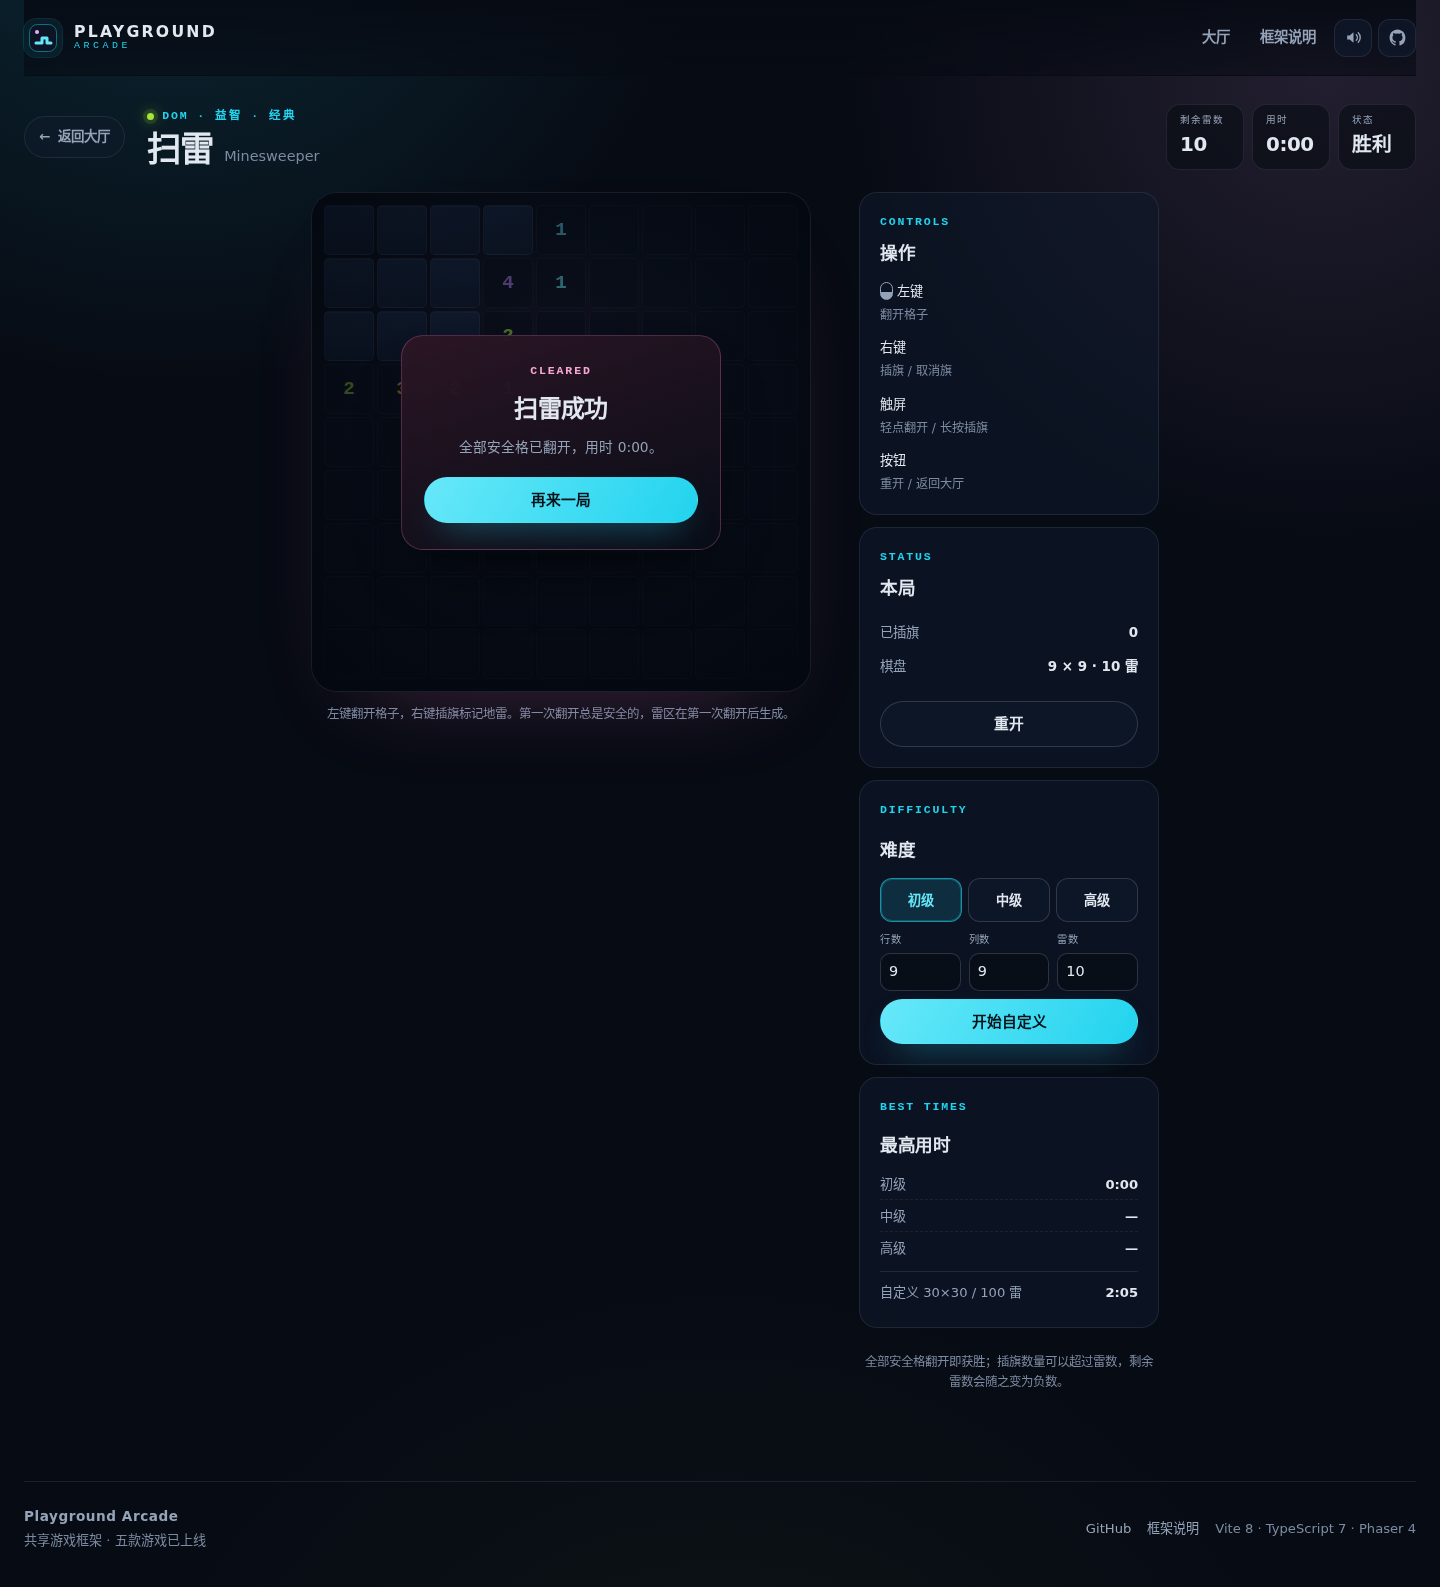
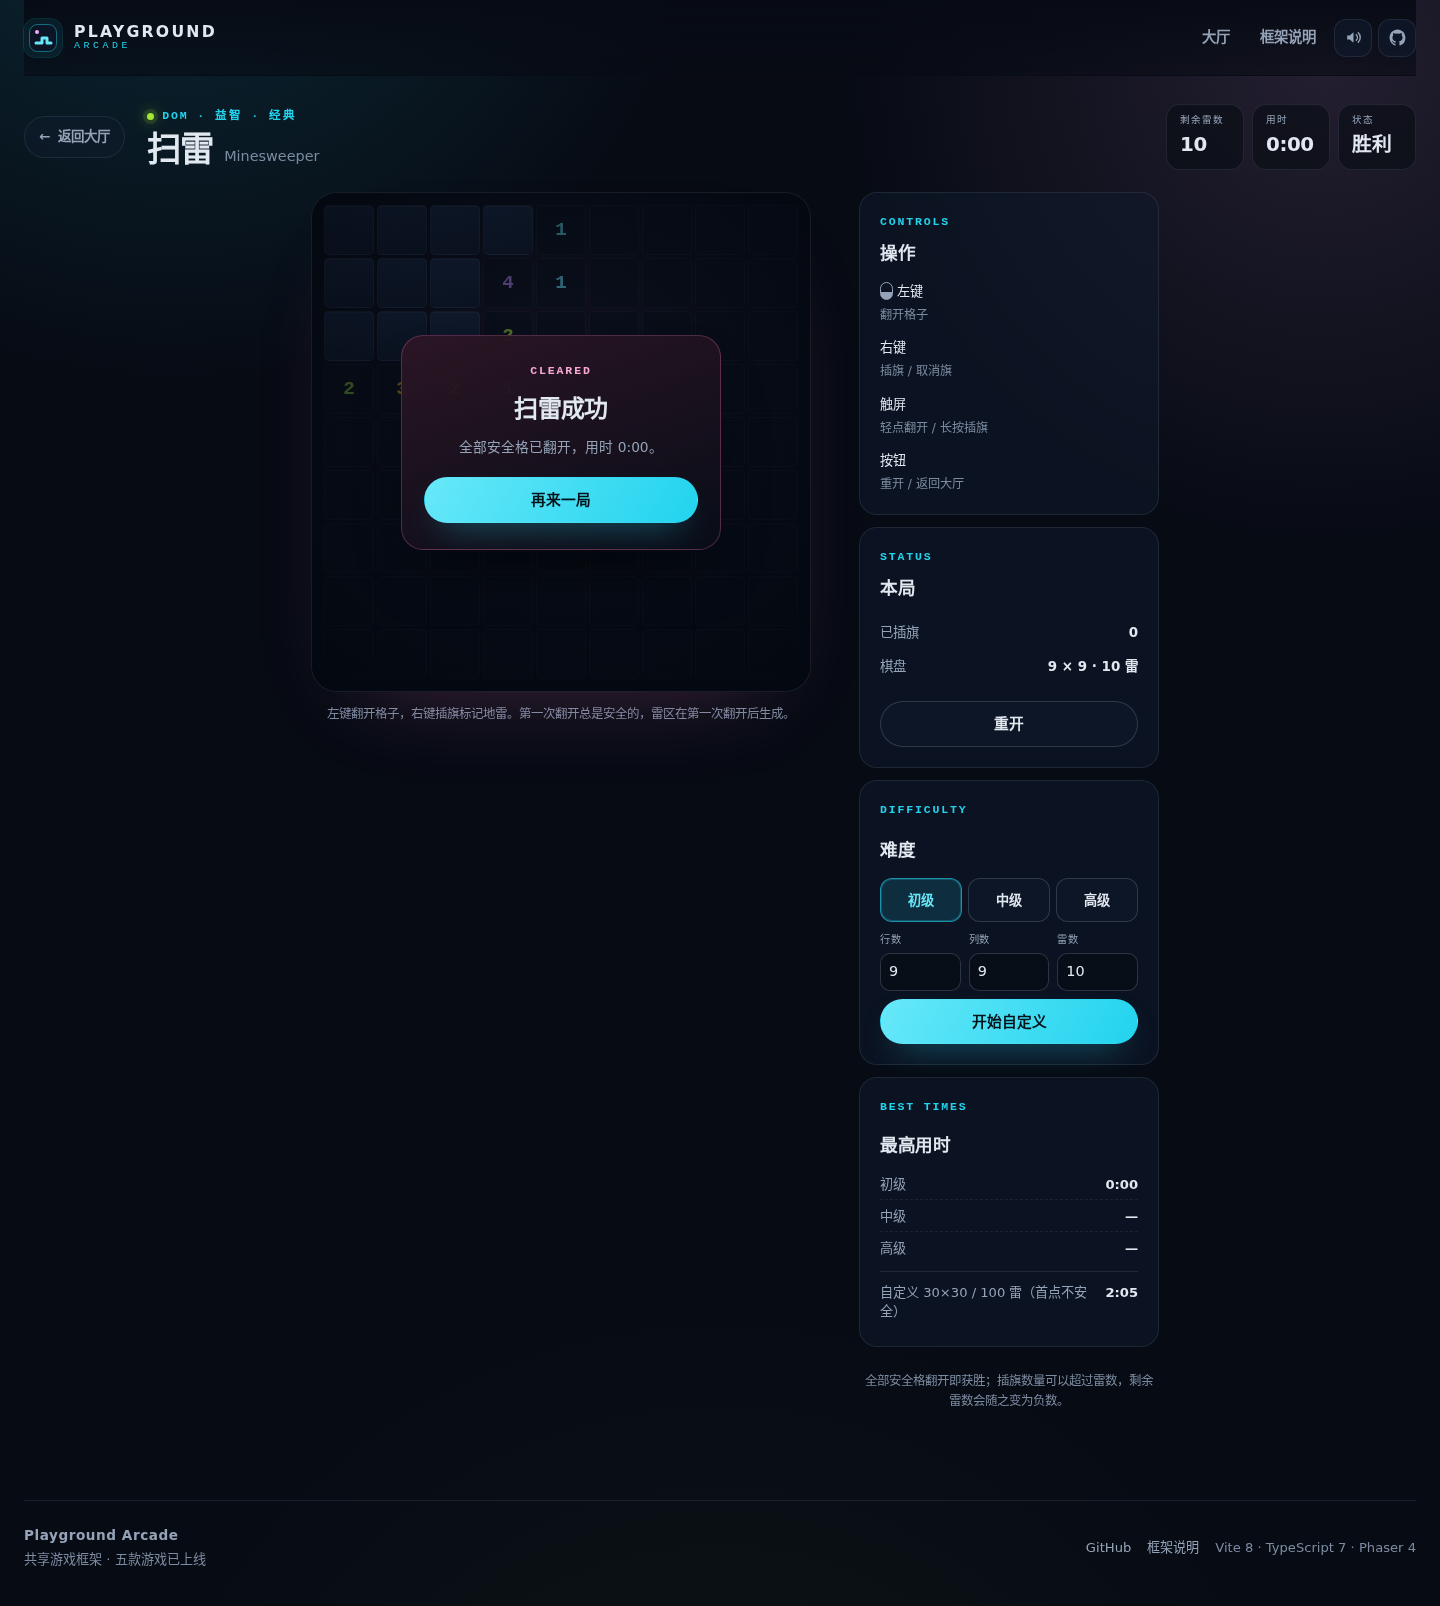
fix(minesweeper): 收紧最高用时写入与榜单测试覆盖
- 预设行改为从 DIFFICULTY_PRESETS 生成，重开也重新读取榜单，消除标签
  漂移风险和「重开只重读」的注释 / 行为不一致
- 单测严格断言元素存在，新增带计时的非零胜利用例，并证明难度切换真的
  重建了棋盘；重开后榜单仍保留原成绩
- e2e 胜利用例改为两段式拆分局并等待计时器，验证非零用时刷新后保留；
  手机端改测最长的「首点不安全」自定义标签
- 截图脚本在 --before 模式断言新面板不存在，避免基线 URL 误用
- 同步测试计数（单测 348、扫雷 128）并刷新 After 截图

Refs #45

diff --git a/src/games/minesweeper/view.test.ts b/src/games/minesweeper/view.test.ts
@@ -209,15 +209,19 @@ function scoreRow(root: HTMLElement, bucketId: string): HTMLElement | null {
 }
 
 function scoreText(root: HTMLElement, bucketId: string): string {
-  return scoreRow(root, bucketId)?.querySelector('dd')?.textContent ?? '';
+  const row = scoreRow(root, bucketId);
+  if (!row) {
+    throw new Error(`Expected a score row for ${bucketId}`);
+  }
+  return row.querySelector('dd')?.textContent ?? '';
 }
 
 function isHidden(root: HTMLElement, testId: string): boolean {
-  return (
-    root
-      .querySelector(`[data-testid="${testId}"]`)
-      ?.hasAttribute('hidden') ?? true
-  );
+  const element = root.querySelector(`[data-testid="${testId}"]`);
+  if (!element) {
+    throw new Error(`Expected ${testId}`);
+  }
+  return element.hasAttribute('hidden');
 }
 
 function clickDifficulty(root: HTMLElement, id: string): void {
@@ -446,7 +450,7 @@ describe('minesweeper best-time leaderboard', () => {
     expect(statusOf(root)).toBe('lost');
     expect(isHidden(root, 'scores-empty')).toBe(false);
     expect(isHidden(root, 'scores-presets')).toBe(true);
-    expect(scoreText(root, CUSTOM_BUCKET)).toBe('');
+    expect(scoreRow(root, CUSTOM_BUCKET)).toBeNull();
     expect(store.getItem(SCORES_STORE_KEY)).toBeNull();
   });
 
@@ -459,14 +463,26 @@ describe('minesweeper best-time leaderboard', () => {
 
     clickCell(root, 2, 2);
     expect(statusOf(root)).toBe('won');
+    const shown = scoreText(root, CUSTOM_BUCKET);
     expect(scoreWrites()).toHaveLength(1);
 
     clickRestart(root);
     expect(statusOf(root)).toBe('ready');
+    expect(scoreText(root, CUSTOM_BUCKET)).toBe(shown);
     expect(scoreWrites()).toHaveLength(1);
 
-    debugApi()?.setConfig(BEGINNER_CONFIG);
+    const api = debugApi();
+    expect(api).toBeDefined();
+    api?.setConfig(BEGINNER_CONFIG);
     expect(statusOf(root)).toBe('ready');
+    // Prove the rebuild really happened instead of letting a missing debug
+    // seam make the optional call a silent no-op.
+    expect(root.querySelectorAll('[data-cell]')).toHaveLength(81);
+    expect(
+      root
+        .querySelector<HTMLButtonElement>('[data-testid="difficulty-beginner"]')
+        ?.getAttribute('aria-pressed'),
+    ).toBe('true');
     expect(scoreWrites()).toHaveLength(1);
   });
 
@@ -507,6 +523,39 @@ describe('minesweeper best-time leaderboard', () => {
     }
   });
 
+  it('records the real elapsed time for a timed win', async () => {
+    vi.useFakeTimers({
+      toFake: [
+        'setTimeout',
+        'clearTimeout',
+        'setInterval',
+        'clearInterval',
+        'performance',
+        'Date',
+      ],
+    });
+    try {
+      const { services } = createServices();
+      const scores = createMinesweeperScores(services.storage);
+      const beginner = bucketForConfig(BEGINNER_CONFIG);
+      const root = await mount(services, PRESET_LOSS_HASH);
+
+      clickCell(root, PRESET_SAFE_CLICK.row, PRESET_SAFE_CLICK.col);
+      expect(statusOf(root)).toBe('playing');
+      vi.advanceTimersByTime(2_500);
+      winRemainingSafeCells(root);
+
+      expect(statusOf(root)).toBe('won');
+      const elapsedMs = gameState().elapsedMs;
+      expect(elapsedMs).toBeGreaterThanOrEqual(2_500);
+      expect(scoreText(root, 'beginner')).toBe(displayTime(elapsedMs));
+      expect(scoreText(root, 'beginner')).not.toBe('0:00');
+      expect(scores.best(beginner)).toBe(elapsedMs);
+    } finally {
+      vi.useRealTimers();
+    }
+  });
+
   it('keeps every bucket when the difficulty changes and shows the matching rows', async () => {
     const { services } = createServices();
     const scores = createMinesweeperScores(services.storage);
@@ -528,7 +577,7 @@ describe('minesweeper best-time leaderboard', () => {
       '自定义 12×12 / 20 雷',
     );
     // The mounted 5x5 board itself has no record, so it is not listed.
-    expect(scoreText(root, CUSTOM_BUCKET)).toBe('');
+    expect(scoreRow(root, CUSTOM_BUCKET)).toBeNull();
 
     clickDifficulty(root, 'beginner');
     expect(statusOf(root)).toBe('ready');

diff --git a/src/games/minesweeper/view.ts b/src/games/minesweeper/view.ts
@@ -52,6 +52,19 @@ function difficultyPresetButtonsHtml(config: Readonly<MinesweeperConfig>): strin
   ).join('');
 }
 
+/**
+ * Render the three preset score rows from the same list the selector and the
+ * score store use, so ids, labels and order cannot drift.
+ */
+function scorePresetRowsHtml(): string {
+  return DIFFICULTY_PRESETS.map(
+    (preset) => `<div class="minesweeper-score" data-score-bucket="${preset.id}">
+              <dt>${preset.label}</dt>
+              <dd data-testid="score-${preset.id}-time">—</dd>
+            </div>`,
+  ).join('');
+}
+
 /** Render the shell for one board configuration; the board itself is rebuilt later. */
 function viewHtml(config: Readonly<MinesweeperConfig>): string {
   return `
@@ -176,18 +189,7 @@ function viewHtml(config: Readonly<MinesweeperConfig>): string {
           <h2 id="minesweeper-scores-title">最高用时</h2>
           <p class="minesweeper-scores-empty" data-testid="scores-empty">还没有记录</p>
           <dl class="minesweeper-scores-list" data-testid="scores-presets" hidden>
-            <div class="minesweeper-score" data-score-bucket="beginner">
-              <dt>初级</dt>
-              <dd data-testid="score-beginner-time">—</dd>
-            </div>
-            <div class="minesweeper-score" data-score-bucket="intermediate">
-              <dt>中级</dt>
-              <dd data-testid="score-intermediate-time">—</dd>
-            </div>
-            <div class="minesweeper-score" data-score-bucket="expert">
-              <dt>高级</dt>
-              <dd data-testid="score-expert-time">—</dd>
-            </div>
+            ${scorePresetRowsHtml()}
           </dl>
           <div class="minesweeper-scores-custom" data-testid="scores-custom" hidden>
             <dl class="minesweeper-scores-list" data-testid="scores-custom-list"></dl>
@@ -488,12 +490,10 @@ export async function mountMinesweeper(
   const scoresPresets = query<HTMLElement>(root, '[data-testid="scores-presets"]');
   const scoresCustom = query<HTMLElement>(root, '[data-testid="scores-custom"]');
   const scoresCustomList = query<HTMLElement>(root, '[data-testid="scores-custom-list"]');
-  const presetScoreElements: ReadonlyMap<string, HTMLElement> = new Map(
-    DIFFICULTY_PRESETS.map((preset) => [
-      preset.id,
-      query<HTMLElement>(root, `[data-testid="score-${preset.id}-time"]`),
-    ]),
-  );
+  const presetScoreElements = DIFFICULTY_PRESETS.map((preset) => ({
+    preset,
+    element: query<HTMLElement>(root, `[data-testid="score-${preset.id}-time"]`),
+  }));
   const scores = createMinesweeperScores(services.storage);
 
   const controller = new AbortController();
@@ -627,11 +627,7 @@ export async function mountMinesweeper(
 
     scoresEmpty.hidden = entries.length > 0;
     scoresPresets.hidden = entries.length === 0;
-    for (const preset of DIFFICULTY_PRESETS) {
-      const element = presetScoreElements.get(preset.id);
-      if (element === undefined) {
-        continue;
-      }
+    for (const { preset, element } of presetScoreElements) {
       const elapsedMs = bestByBucket.get(preset.id);
       setText(element, elapsedMs === undefined ? '—' : formatTime(elapsedMs));
     }
@@ -887,6 +883,7 @@ export async function mountMinesweeper(
     // game action, so clear that transient error and show the active config.
     hideDifficultyError();
     syncDifficultyControls();
+    renderScores();
     announce('游戏重新开始');
     // The overlay hides with focus still inside it, so move focus back to a
     // visible restart control once the new board is ready. On touch layouts the

diff --git a/tests/e2e/minesweeper.spec.ts b/tests/e2e/minesweeper.spec.ts
@@ -25,6 +25,13 @@ import {
   trackProbeTarget,
 } from './fixtures';
 
+// A mine wall at column 4 splits the board into two safe regions, so winning
+// takes two reveals and the pause between them records a non-zero time.
+const SPLIT_MINES = [
+  { row: 0, col: 0 },
+  ...Array.from({ length: 9 }, (_, row) => ({ row, col: 4 })),
+];
+
 test.describe('minesweeper gameplay', () => {
   test('hub card opens the game, shows the ready HUD, and the back link returns to the hub', async ({
     page,
@@ -295,17 +302,25 @@ test.describe('minesweeper gameplay', () => {
     await expectCleanBoard(page);
   });
 
-  test('a win records a best time that survives a reload', async ({ page }) => {
-    await openMinesweeper(page, { mines: WIN_MINES });
+  test('a win records a non-zero best time that survives a reload', async ({ page }) => {
+    await openMinesweeper(page, { mines: SPLIT_MINES });
     const score = page.getByTestId('score-beginner-time');
     await expect(page.getByTestId('scores-empty')).toBeVisible();
 
-    await cellLocator(page, WIN_CLICK.row, WIN_CLICK.col).click();
+    // The first reveal clears only the left safe region. Wait past a timer tick
+    // so the winning time is genuinely non-zero rather than 0:00.
+    await cellLocator(page, 8, 0).click();
+    await expect(page.getByTestId('status')).toHaveText('进行中');
+    await page.waitForTimeout(1_200);
+    await expect(page.getByTestId('timer')).not.toHaveText('0:00');
+
+    await cellLocator(page, 8, 8).click();
     await expect(page.getByTestId('status')).toHaveText('胜利');
     await expect(page.getByTestId('scores-empty')).toBeHidden();
     await expect(score).toHaveText(/^\d+:\d{2}$/);
     const best = (await score.textContent()) ?? '';
     expect(best).not.toBe('—');
+    expect(best).not.toBe('0:00');
 
     const stored = await page.evaluate(() =>
       JSON.parse(
@@ -314,6 +329,7 @@ test.describe('minesweeper gameplay', () => {
     );
     expect(stored.version).toBe(1);
     expect(typeof stored.records.beginner).toBe('number');
+    expect(stored.records.beginner).toBeGreaterThan(0);
 
     // A document reload remounts the game from localStorage; the same fixed
     // board URL is preserved, so the row must show the same best time.

diff --git a/tests/e2e/minesweeper.mobile.spec.ts b/tests/e2e/minesweeper.mobile.spec.ts
@@ -124,14 +124,14 @@ test.describe('minesweeper on a phone viewport', () => {
         'playground:v1:minesweeper.scores',
         JSON.stringify({
           version: 1,
-          records: { 'custom:30x30x100:safe': 125_000 },
+          records: { 'custom:30x30x100:unsafe': 125_000 },
         }),
       );
     });
     await openMinesweeper(page, { mines: LOSS_MINES });
 
-    const row = page.locator('[data-score-bucket="custom:30x30x100:safe"]');
-    await expect(row).toContainText('自定义 30×30 / 100 雷');
+    const row = page.locator('[data-score-bucket="custom:30x30x100:unsafe"]');
+    await expect(row).toContainText('自定义 30×30 / 100 雷（首点不安全）');
     await expect(row).toContainText('2:05');
     await expectNoHorizontalOverflow(page);
 

diff --git a/src/games/minesweeper/minesweeper.css b/src/games/minesweeper/minesweeper.css
@@ -352,7 +352,6 @@
   line-height: 1.5;
 }
 
-.minesweeper-scores-empty[hidden],
 .minesweeper-scores-list[hidden],
 .minesweeper-scores-custom[hidden] {
   display: none;

diff --git a/README.md b/README.md
@@ -358,7 +358,7 @@ games/<game>/scene → 对应引擎（动态 import）
 ```bash
 npm run typecheck    # 通过
 npm run lint         # 通过
-npm run test:unit    # 347 passed（含贪食蛇 21、俄罗斯方块 38、2048 35、打砖块 39、扫雷 127 个规则 / 难度 / 成绩 / 视图 / 调试用例）
+npm run test:unit    # 348 passed（含贪食蛇 21、俄罗斯方块 38、2048 35、打砖块 39、扫雷 128 个规则 / 难度 / 成绩 / 视图 / 调试用例）
 npm run build        # 通过
 npm run check:budget # 通过（入口 10.91 KB gzip，全部 JS 404.00 KB gzip）
 npm run test:e2e     # 111 passed（桌面 84 + 手机 27）
